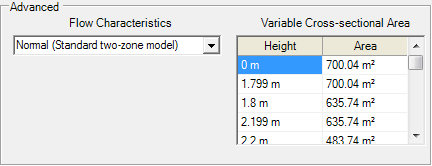
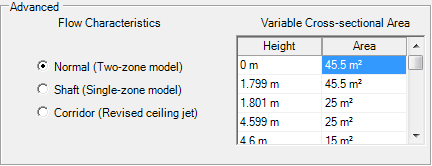
CFAST User's Guide: Updating User's Guide for version 7

diff --git a/Docs/Users_Guide/Input_File_Chapter.tex b/Docs/Users_Guide/Input_File_Chapter.tex
@@ -746,7 +746,7 @@ Use the Create New button to create a new fire object with default values for al
 \textbf{CO Yield} (default units: kg/kg, default value: determined by correlation): Constant species yield of carbon monoxide expressed as a fraction of the fuel mass converted into carbon monoxide.  By default, the CO yield is related to the soot yield via the correlation developed by K\"oyl\"u and Faeth
 
 \be
-y_{CO} = \frac{12n_C}{M_fv_f}0.0014 + 0.37y_s \label{eq:Koylu} 
+y_{CO} = \frac{12n_C}{M_fv_f}0.0014 + 0.37y_s \label{eq:Koylu}
 \ee
 where $n_C$ is the number of carbon atoms in a fuel molecule, $M_f$ is the molecular weight of the fuel, and $v_f$ is the stoichiometric coefficient of the fuel, assumed to be 1 here \cite{Koylu:1991}. Note that this correlation refers to well-ventilated fires. Yields of CO and soot in underventilated fires is still a subject of active research.
 
@@ -825,7 +825,7 @@ For a wide range of fires, the fire growth can be accurately represented with a 
 
 \subsection{Associating Fire Objects with One or More Instances of the Fire in the Compartments of the Simulation}
 
-Fires  are placed in defined positions within a compartment of a simulation and oriented with a normal vector to the surface of the object.  Ignition of an object may be at a specified time, a specified net incident heat flux on the surface of the object, or at a specified surface temperature of the object. 
+Fires  are placed in defined positions within a compartment of a simulation and oriented with a normal vector to the surface of the object.  Ignition of an object may be at a specified time, a specified net incident heat flux on the surface of the object, or at a specified surface temperature of the object.
 
 \begin{figure}[h!]
 \begin{center}
@@ -963,13 +963,22 @@ For all targets, heat flux is calculated to the surface specified by the user (w
 
 \textbf{Compartment}: The compartment in which the target is located.
 
+\textbf{Target Type}: If the solution method is not STEADY, this parameter further indicates the solutions equations.  Specify Thermally Thick, Thermally Thin, or Cylindrical.  For thermally thin materials, CFAST uses ordinary differential equations; for thermally thick materials, partial differential equations, and for cylindrical targets, cylindrical coordinates.
+
+\textbf{Solution Method}: Optional parameter that indicates the solution method. STEADY for steady state solution, EXPLICIT for explicit solution, IMPLICIT for implicit solution.
+
+
+\begin{wrapfigure}{l}{0pt}
+  \includegraphics[width=3.713in]{FIGURES/Input_File/Target_Geometry}
+\end{wrapfigure}
+
 \textbf{Width (X)} Position (default units: m, default value: none): Position of the target as a distance from the left wall of the target compartment (X direction).
 
 \textbf{Depth (Y)} Position(default units: m, default value: none): Position of the target as a distance from the front wall of the target compartment (Y direction).
 
 \textbf{Height (Z)} Position(default units: m, default value: none): Height of the target above the floor (Z direction).
 
-\begin{wrapfigure}{r}{0pt}
+\begin{wrapfigure}{l}{0pt}
   \includegraphics[width=1.875in]{FIGURES/Input_File/Target_Points_To}
 \end{wrapfigure}
 
@@ -979,11 +988,13 @@ For all targets, heat flux is calculated to the surface specified by the user (w
 
 \textbf{Normal Vector Z} Component: specifies a vector of unit length perpendicular to the exposed surface of the target. (Height) component in the direction from the floor of the target compartment. Default value is a horizontal, upward facing target, unit vector = (0,0,1).
 
-\textbf{Material}: Used to specify the wall material of the target.  Any material from the thermal database used to represent wall materials may be used here.  Since the transient heat conduction problem is not solved now for the target this parameter is not used.
+\begin{wrapfigure}{l}{0pt}
+  \includegraphics[width=2.531in]{FIGURES/Input_File/Target_Construction}
+\end{wrapfigure}
 
-\textbf{Target Type}: If the solution method is not STEADY, this parameter further indicates the solutions equations.  Specifiy Thermally Thick, Thermally Thin, or Cylindrical.  For thermally thin materials, CFAST uses ordinary differential equations; for thermally thick materials, partial differential equations, and for cylindrical targets, cylindrical corrdinates.
+\textbf{Material}: Used to specify the wall material of the target.  Any existing material in the list of thermal properties may be used here.
 
-\textbf{Solution Method}: Optional parameter that indicates the solution method. STEADY for steady state solution, EXPLICIT for explicit solution, IMPLICIT for implicit solution.
+\textbf{Internal Temperature at} (default units: none, default value: 0.5): For each target, CFAST calculates the internal temperature at a number of node points within the target. By default, the reported internal temperature (in the printed and spreadsheet output) is the temperature at the center of the target, e.g., equidistant from the front and back faces of the target. This input allows the user to override this default position. The input represents the position as a fraction of the thickness from the front surface to the back surface of the material.
 
 \begin{itemize}
 \item The TARGE keyword performs a heat transfer calculation between the compartment and the target. The steady state option assumes that the target material reacts instantly to changing conditions and computes the target temperature that would result in a balance of incoming and outgoing heat (i.e., a steady state). If a transient target temperature is modeled, then one can either assume that there is a temperature variation within the target or assume that the target is “thin” and can be modeled using only one temperature. If the target is assumed to be thin then the ODE option should be used set since this is how the equations are solved. If the target is assumed to be thick then the PDE option should set. Finally, if one of the two transient options are set (ODE or PDE), the numerical solution can be solved using an explicit or an implicit method.  Typically, the implicit method will work in all cases.  The explicit method is recommended only when the implicit method fails to come to a solution.
@@ -992,27 +1003,22 @@ For all targets, heat flux is calculated to the surface specified by the user (w
 
 \subsection{Modeling a Compartment as a Tall Shaft or Long Corridor}
 
-For tall compartments or those removed from the room of fire origin, the compartment may be modeled as a single, well-mixed zone rather than the default two-zone assumption. A single zone approximation is appropriate for smoke flow far from a fire source, where the two-zone layer stratification is less pronounced than in compartments near the fire. This is used in situations where the stratification does not occur. Examples are elevators, shafts, complex stairwells, and compartments far from the fire.
+For tall compartments or those removed from the room of fire origin, the compartment may be modeled as a single, well-mixed zone rather than the default two-zone assumption. A single zone approximation is appropriate for smoke flow far from a fire source, where the two-zone layer stratification is less pronounced than in compartments near the fire or in situations where the stratification does not occur. Examples are elevators, shafts, complex stairwells, or compartments far from the fire.
 
-For long hallways or corridors, there can be a significant delay time for the initial hot gas layer to travel along the ceiling to the far end of the compartment. By estimating the time required for a ceiling jet to travel in a corridor and the temperature distribution along the corridor, CFAST can delay flow into compartments connected to corridors until the ceiling jet has passed the connections to these compartments.
+By specifying the compartment as a corridor, the ceiling jet temperature is calculated with a different empirical correlation that results in a somewhat higher temperature near the ceiling.  This will impact, for example, detectors, sprinkler, and targets near the ceiling in corridors.
 
 \begin{figure}[h!]
 \begin{center}
-\includegraphics[width=4.5in]{FIGURES/Input_File/Corridor_Flow}
+\includegraphics[width=4.25in]{FIGURES/Input_File/Corridor_Flow}
 \end{center}
 \end{figure}
 
-\textbf{50 \% Decay Velocity} (default units: m/s, default value: calculated by software): ceiling jet velocity at the distance from the reference point where the temperature falls off by 50 \%. Default velocity and depth are calculated by the program based on the vent size, flow and layer thickness in the horizontal vent from which flow first enters the hallway, and on the width of the hallway1.
+\textbf{Normal (Two-zone model)}: Conditions in the compartment are calculated with the normal two-zone approach.
 
-\textbf{50 \% Decay Depth} (default units: m, default value: calculated by software): ceiling jet depth at the distance from the reference point where the temperature falls off by 50 \%.
+\textbf{Shaft (Single-zone model}: Conditions in the compartment are calculated as single well-mixed zone.
 
-\textbf{50 \% Decay Distance} (default units: m, default value: calculated by software): distance from the reference point where the temperature falls off by 50 \%.
+\textbf{Corridor (Revised ceiling jet}: Conditions in the compartment are calculated with the normal two-zone approach. Ceiling jet temperatures in the compartment are calculated with a revised empirical correlation specific to corridors.
 
-\begin{itemize}
-\item  Since the algorithm depends on the flow into the hallway to determine default ceiling jet velocity and depth, the main fire compartment should not be specified as a hallway. In the main fire compartment, a stable layer will build before flow into the compartment through horizontal vents.
-\item The zone model concept best applies for an enclosure in which the width and length are not too different.  If the horizontal dimensions of the room differ too much (i.e., the room looks like a corridor), the flow pattern in the room may become asymmetrical. If the enclosure is too shallow, the temperature may have significant radial differences. The width of the plume may at some height become equal to the width of the room and the model assumptions may fail in a tall and narrow enclosure. Therefore, the user should recognize approximate limits on the ratio of the length (L), width (W), and height (H) of the compartment.
-\item If the aspect ratio (the maximum of length/width or width/length) is greater than about 5, the corridor flow algorithm can be used to provide the appropriate filling time. By contrast, a single zone approximation is more appropriate for tall shafts (elevators and stairways).  This is due to interaction of the plume, lower layer, and shaft walls that leads to complete mixing.  This is the inverse of the corridor problem, and occurs at an aspect ratio (the maximum of height/width or height/length) of about 5. Recommended guidance is as follows:  If the width to length aspect ratio (the maximum of length/width or width/length) is greater than 5, use of the corridor flow algorithm is appropriate. If the width to length aspect ratio is greater than 3 but less than 5, the corridor flow algorithm may or may not be appropriate; consider the results from a simulation with and without the algorithm to assess its appropriateness. If the room is not a corridor and the height aspect ratio (the maximum height/width or height/length) is greater than 5, the single zone approximation is appropriate.
-\end{itemize}
 
 \subsection{Defining Compartment Area}
 
@@ -1028,7 +1034,7 @@ ROOMH,1,6,0,1.799,1.8,2.199,2.2,2.399
 
 \begin{figure}[h!]
 \begin{center}
-\includegraphics[width=4.5in]{FIGURES/Input_File/Variable_Area}
+\includegraphics[width=4.25in]{FIGURES/Input_File/Variable_Area}
 \end{center}
 \end{figure}
 
